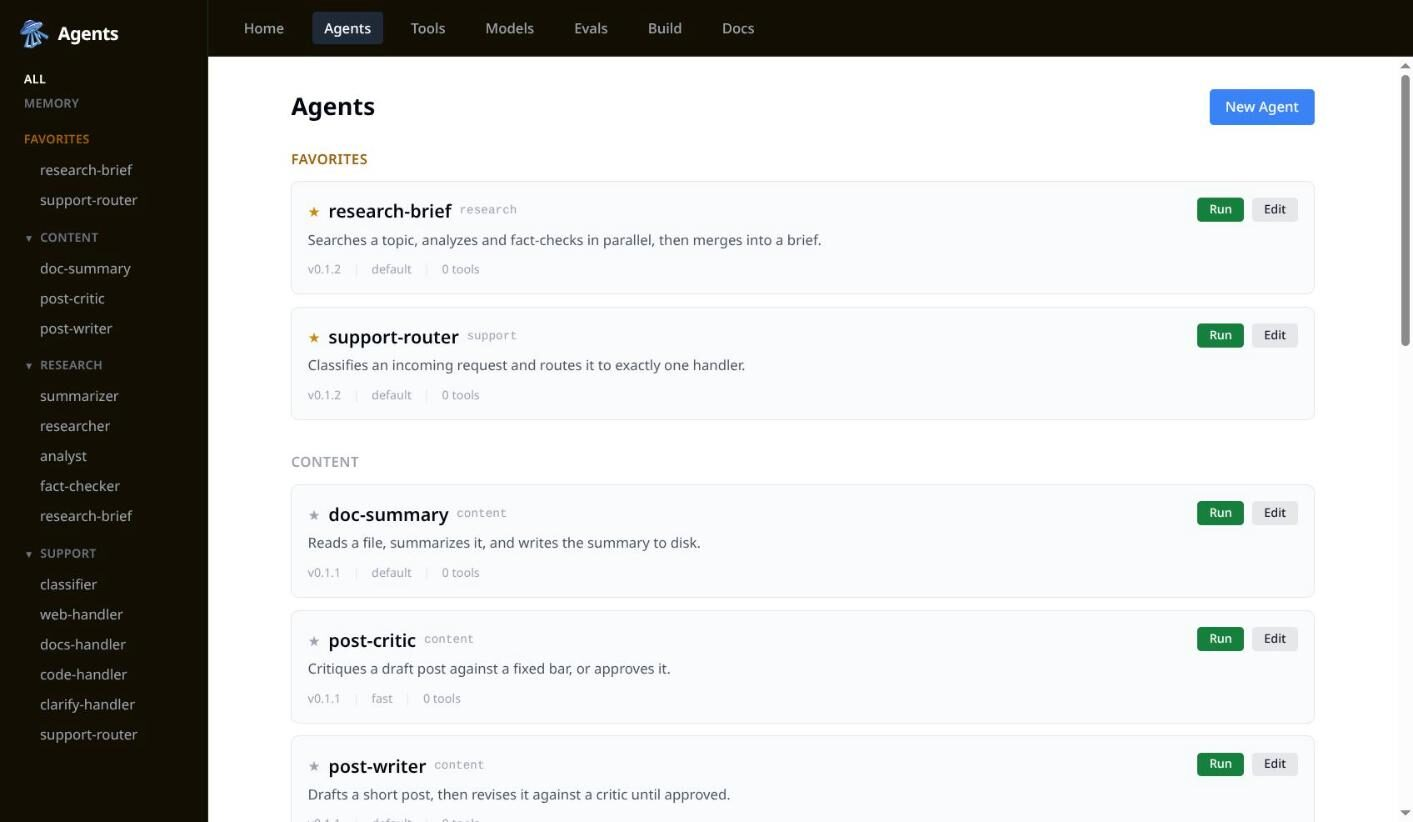
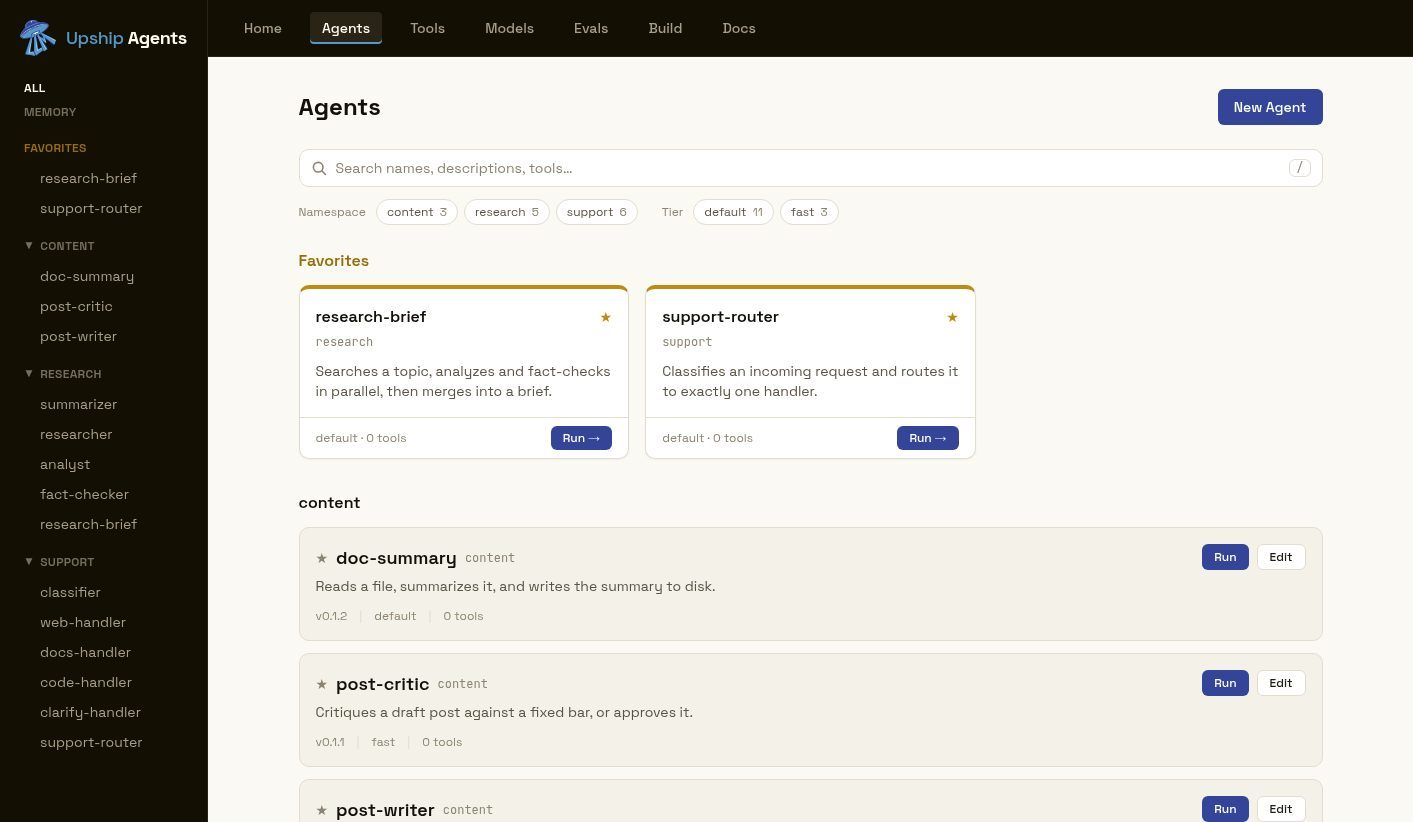
agents: new screenshots, and tutorial screenshots taken from real runs

diff --git a/content/agents/pipeline.md b/content/agents/pipeline.md
@@ -113,7 +113,8 @@ panel beside the canvas edits it.
 
 1. **The first node reads the commits.** Set **Id** to `log` and **Ref** to
    `git_log`. Under **Input**, click **+ param**, type `repo` as the name, and
-   leave the value as `{{input}}`.
+   leave the value as `{{input}}`. Add a second param, `maxCount`, set to `40`,
+   so the pipeline reads the same 40 commits the writer read on its own.
 2. **The second node writes the notes.** Click **+ Add Node**, which adds a
    node after the last one. Set **Id** to `write` and **Ref** to
    `changelog-writer`, your agent from tutorial 1, which the list shows beside
@@ -129,7 +130,7 @@ under `graph`:
 ```json
 {
   "nodes": [
-    { "id": "log",   "ref": "git_log",          "input": { "repo": "{{input}}" } },
+    { "id": "log",   "ref": "git_log",          "input": { "repo": "{{input}}", "maxCount": "40" } },
     { "id": "write", "ref": "changelog-writer" },
     { "id": "save",  "ref": "write_file",       "input": { "path": "RELEASE_NOTES.md", "content": "{{input}}" } }
   ]
@@ -185,9 +186,16 @@ overwrite another run's output, and a pipeline you are still trying out cannot
 touch your working tree.
 
 Now run it in the browser. Open `release-notes` and click **Run**, give it the
-full path to the repository, and watch the **Graph** under the input box. Each
-node turns yellow while it runs and green when it finishes, with its time and
-cost printed under it.
+full path to the repository, and watch the **Graph** under the input box. A
+node lights up under a beam while it runs and turns green when it finishes, with
+its time and cost printed under it. The `40` went in as text, and the tool
+received a number: a tool node's params are converted to the types the tool
+asks for.
+
+<figure class="agents-shot">
+<img src="/img/agents/tutorial/pipeline-running.jpg" alt="The Playground graph mid-run: log is green with its time, write is lit by a cone of light with a dashed blue edge flowing into it, save has not started" />
+<figcaption>Mid-run. <code>log</code> is done in milliseconds, and <code>write</code> is the model at work.</figcaption>
+</figure>
 
 ## 4. The run in history
 
@@ -197,14 +205,19 @@ used as a node runs the same way it runs when you call it by name. It gets a run
 record with its own steps, tokens and version, and that record points at the
 run that called it.
 
+<figure class="agents-shot">
+<img src="/img/agents/tutorial/pipeline-history.jpg" alt="Run History with release-notes runs expanded: the gated run has four children, two notes-reviewer and two changelog-writer runs; the plain pipeline run has one changelog-writer child" />
+<figcaption>Each pipeline run with its children under it. The top one is from the gate in step 6: two writes, two checks.</figcaption>
+</figure>
+
 Click the `release-notes` run. Two things are different from the runs in
 tutorial 1.
 
 - **Model** is a dash. The graph itself called no model, so there is none to
   name. The child's run names the model its tier resolved to.
-- **There is a Pipeline card**, reading something like
-  `18.5s · 14,098 tok · $0.0499`, and a **Pipeline** section below the numbers
-  that lists the child runs, each linked to its own page.
+- **The numbers end with a total for the whole tree**, reading something like
+  `all 2 runs 12,803 tokens, $0.048`, and a **Pipeline** section below them
+  lists the child runs, each linked to its own page.
 
 The **Trace** shows the three nodes as call and result pairs: the `git_log`
 arguments and the commits that came back, the input `changelog-writer` was
@@ -212,9 +225,14 @@ handed, and the path `write_file` returned. Click through to the
 `changelog-writer` run and its trace has one step, the notes. It did not call
 `git_log`, which is the sentence you added in step 1 at work.
 
+<figure class="agents-shot">
+<img src="/img/agents/tutorial/pipeline-run.jpg" alt="A release-notes run page: took 26.2s, steps 3, model shown as a dash, a total for all 2 runs, a Pipeline diagram from release-notes to changelog-writer, and the write_file result as output" />
+<figcaption>The graph ran no model of its own, so its model is a dash. The total covers the run and its child.</figcaption>
+</figure>
+
 ## 5. What it cost
 
-The Pipeline card is the sum of the run and everything under it. Here that is
+The total is the sum of the run and everything under it. Here that is
 one child, so the parent's tokens and cost are exactly the writer's. Two of the
 three nodes cost nothing, and the graph charged nothing for deciding what to run
 next, because nothing decided.
@@ -246,13 +264,14 @@ The checker is an agent. Make a second one: **New Agent**, and fill in
 ```text
 You check release notes before they are published. You do not rewrite them.
 
-Check one thing: the last line starts with "Thanks to" and is followed by at
-least one name. You see the notes but not the commits, so you cannot know who
-the authors are. Any names will do.
+Check one thing: the notes end with a line thanking the commit authors by
+name, starting "Thanks to". You see the notes but not the commits, so you cannot
+know who the authors are. Any names will do. A heading or a bullet about a
+change is not a thanks line.
 
-If it does, reply with the single word APPROVED and nothing else.
+If that line is there, reply with the single word APPROVED and nothing else.
 
-If it does not, do not write APPROVED anywhere. Say in one line what the writer
+If it is not, do not write APPROVED anywhere. Say in one line what the writer
 should add.
 ```
 
@@ -269,6 +288,11 @@ then add two nodes:
    to `2`.
 2. `save` again, as before: `write_file`, `path` set to `RELEASE_NOTES.md`,
    `content` set to `{{input}}`.
+
+<figure class="agents-shot">
+<img src="/img/agents/tutorial/gate-composer.jpg" alt="The graph composer with five nodes, log, write, check, save, and the check node selected: ref notes-reviewer, validation gate ticked, pass phrase APPROVED, on fail retry, max retries 2" />
+<figcaption>The gate is a node like any other, with a tick box. Its settings sit under it.</figcaption>
+</figure>
 
 Save, and run it again:
 
@@ -300,9 +324,14 @@ people who contributed to this release.
 
 The second draft ended with a line thanking the commit authors by name, the
 reviewer said `APPROVED`, and the run went on. In the Playground the same thing happens on the
-graph: `write` goes yellow a second time after it was green. In **Run History**
+graph: `write` lights up a second time, after `check` has already finished. In **Run History**
 the run now has four children, two writes and two checks, and each is a run you
 can open.
+
+<figure class="agents-shot">
+<img src="/img/agents/tutorial/gate-retry.jpg" alt="The Playground graph during a retry: check is green with its time and cost, and write is lit again under the beam" />
+<figcaption>The reviewer said no, so <code>write</code> runs again with the complaint attached.</figcaption>
+</figure>
 
 One thing trips everyone up at first. `save` wrote the notes, not the word
 APPROVED. A gate that passes hands on its own input, the draft it was checking,
@@ -317,14 +346,16 @@ thing per gate. Make it a thing the checker can see: this one gets the notes and
 not the commits, which is why its prompt says any names will do. Before that
 sentence was added, it rejected good notes for thanking the wrong people. And
 spend a better model on the checker, since its answer is one word and it costs
-little.</p>
+little. Even then it slips: in our runs this reviewer, on Claude Opus, passed a
+draft with no thanks line about one time in three. If yours passes first time,
+open the notes, and if the line is missing, run it again.</p>
 <p>If the reviewer never approves, the run ends as an error after the last retry,
 and the message is the reviewer's last complaint: <code>Gate "check" rejected
 the output after 2 retries: …</code>. A gate asserts something, and an
 assertion that never held has no best-effort answer. Nothing is written.</p>
 </div>
 
-Look at the Pipeline card on this run. The reviewer costs about a cent a check.
+Look at the total on this run. The reviewer costs a cent or two a check.
 The retry is what costs: it is another whole writer run, with every commit sent to the model again.
 A run that went back once costs about twice what one that passed first time
 does. Your numbers will differ, but that ratio holds. A gate earns its keep when

diff --git a/content/agents/first-agent.md b/content/agents/first-agent.md
@@ -206,13 +206,18 @@ step list fill in:
    this part.
 3. The release notes, streamed as they are written.
 
+<figure class="agents-shot">
+<img src="/img/agents/tutorial/playground.jpg" alt="The Playground after a run: the input path, a git_log step with its arguments and result, and the release notes under Output" />
+<figcaption>The model chose the <code>git_log</code> call and its arguments. The arrow line under it is what came back.</figcaption>
+</figure>
+
 <div class="tut-note">
 <p><strong>Try to read something you should not.</strong> Run it once more, and
 this time give it <code>/etc</code>. The model asks <code>git_log</code> for that
 path, and the tool refuses:</p>
 <p><code>Path "/etc" is outside the allowed directories "/home/you/.agents/data", "/home/you/code".</code></p>
-<p>The run ends as an error, and the message names the directories it was held
-to. Every tool that touches the disk goes through the same check, so no agent on
+<p>The model gets the refusal back, says it cannot read that directory, and the
+run ends there. The refusal names the directories the tool was held to. Every tool that touches the disk goes through the same check, so no agent on
 this install can wander the machine, whatever its prompt says. Nor can the CLI
 talk it into more: <code>cd /etc && agent changelog-writer .</code> runs, but
 against the data directory, with a note saying so. The git tools go one step
@@ -221,12 +226,17 @@ directory are, then check those too, so a repository that reaches outside the
 allowed directories is refused as well.</p>
 </div>
 
+<figure class="agents-shot">
+<img src="/img/agents/tutorial/refusal.jpg" alt="The Playground after a run on /etc: the git_log step returned an error naming the allowed directories, and the output is the model saying it has no access" />
+<figcaption>The tool said no, and the model passed that on. Nothing outside the allowed directories was read.</figcaption>
+</figure>
+
 ## 4. The run in history
 
 Open **Run History**. The runs you just made are at the top, each with its status,
 tokens, cost, and duration. Click the first one.
 
-The run page starts with a row of numbers: duration, steps, the model it ran on,
+The run page starts with a line of numbers: duration, steps, the model it ran on,
 tokens, and cost. Two of these deserve a sentence.
 
 - **Model** is the model the run used, not the tier the agent asked for. The
@@ -237,8 +247,9 @@ tokens, and cost. Two of these deserve a sentence.
   rather than as free. It is tracked in microdollars, so a run that cost a
   fraction of a cent still has a number.
 
-Under the numbers is the step list, the same one the Playground streamed, now
-kept. Each tool call is paired with its result, so you can open the `git_log`
+Under the numbers are the input and the output. Below them is the **Trace**,
+folded shut unless the run failed. Open it. It is the step list the Playground
+streamed, now kept. Each tool call is paired with its result, so you can open the `git_log`
 call and see both the arguments the model chose and what came back:
 
 ```json
@@ -263,13 +274,18 @@ pipeline step can pick out `commits[0].hash` without parsing anything. Then the
 answer, with its own token count. The token counts on the steps add up to the
 total at the top.
 
+<figure class="agents-shot">
+<img src="/img/agents/tutorial/run-trace.jpg" alt="The Trace on a run page, with the git_log step open: its input, the repository path and maxCount 40, and its output, a list of commit objects" />
+<figcaption>Open a step to see both sides of it: what the model asked for, and what the tool handed back.</figcaption>
+</figure>
+
 At the bottom, the run names the agent **version** that produced it, as a short
 id. Right now there is only one version. That changes in the next step.
 
-Scroll down and find the failed run too. Its status is an error and its output is
-the refusal from the tool. A failure is recorded the same way a success is, with
-the same fields, which is what makes it possible to find out later what went
-wrong.
+Find the `/etc` run too. Its output is the model explaining it was refused, and
+its trace has the `git_log` call with the refusal that came back. A run that went
+wrong is recorded the same way as one that went right, with the same fields,
+which is what makes it possible to find out later what happened.
 
 ## 5. Edit the prompt and run again
 
@@ -301,6 +317,11 @@ That pairing is what makes A/B testing a prompt a matter of looking rather than
 remembering. The run page can also replay a run against a different version on
 the same input, which is the tool for comparing two prompts directly. It is one
 click and is not walked here.
+
+<figure class="agents-shot">
+<img src="/img/agents/tutorial/versions.jpg" alt="An agent page showing the current prompt ending in the summary line, and Version History with v0.1.1 and v0.1.0, the older one open to show its prompt without that line" />
+<figcaption>Two saves, two versions. The older one, open here, has no summary line. The short id on the right is the one a run page names.</figcaption>
+</figure>
 
 ## Now your turn
 

diff --git a/content/agents/features.md b/content/agents/features.md
@@ -108,6 +108,11 @@ url: /agents/features
 ## The control panel
 
 <figure class="agents-shot">
+<img src="/img/agents/agent-list.jpg" alt="The Agents page with a search box, chips for namespace and tier with counts, favorite agents as tiles with a Run button, and the rest grouped by namespace" />
+<figcaption>Every agent, grouped by namespace. Search matches names, descriptions and tools. The chips narrow it by namespace or tier. Favorites sit on top with a Run button.</figcaption>
+</figure>
+
+<figure class="agents-shot">
 <img src="/img/agents/agent-detail.jpg" alt="An agent detail page showing the system prompt, model tier, a rendered graph pipeline, and version history" />
 <figcaption>An agent: its prompt, model tier, step limit, and the pipeline that says what it does. Every save keeps a version, and each run links back to the version that produced it.</figcaption>
 </figure>
